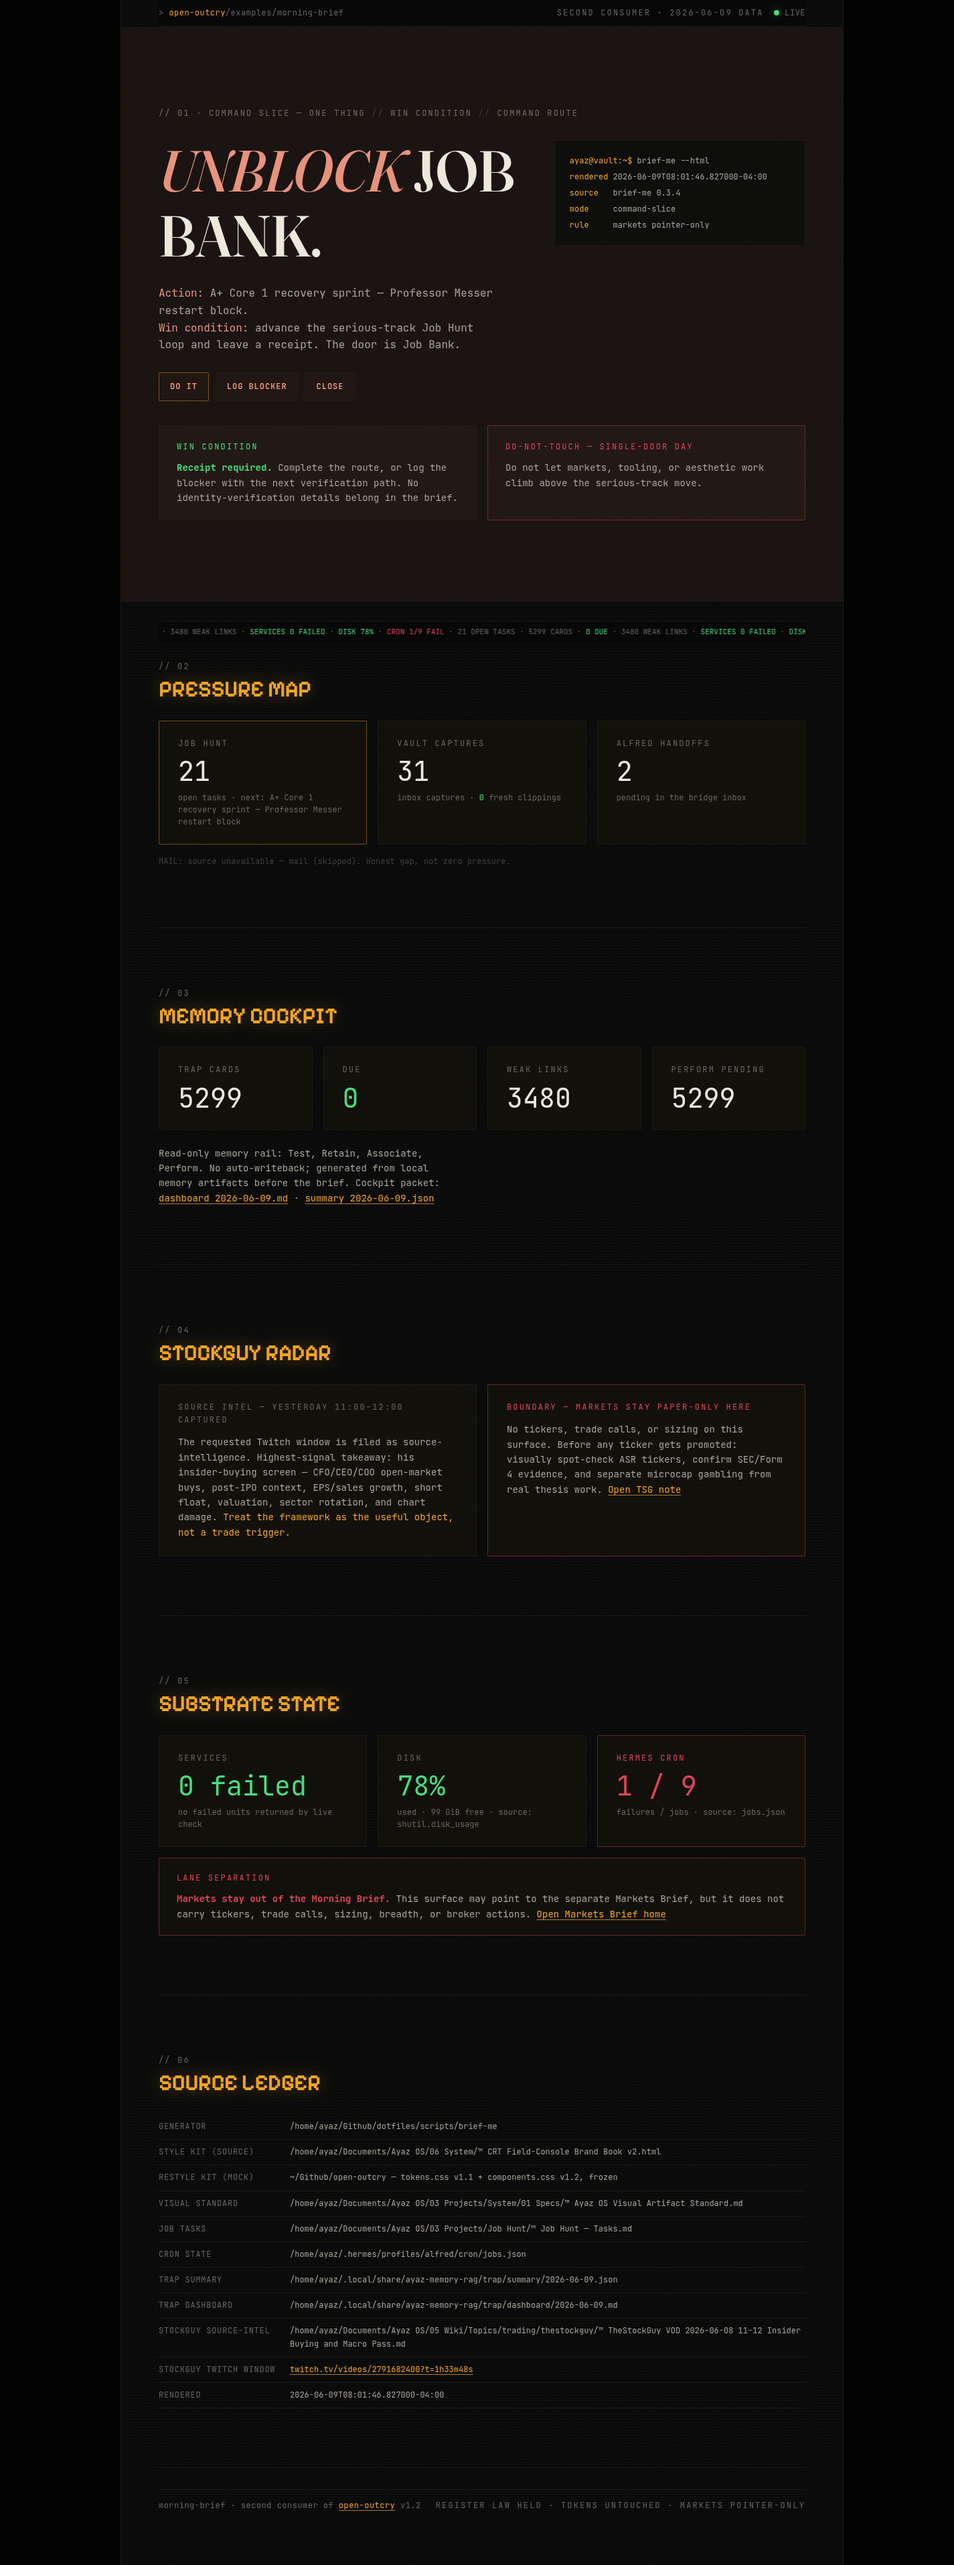
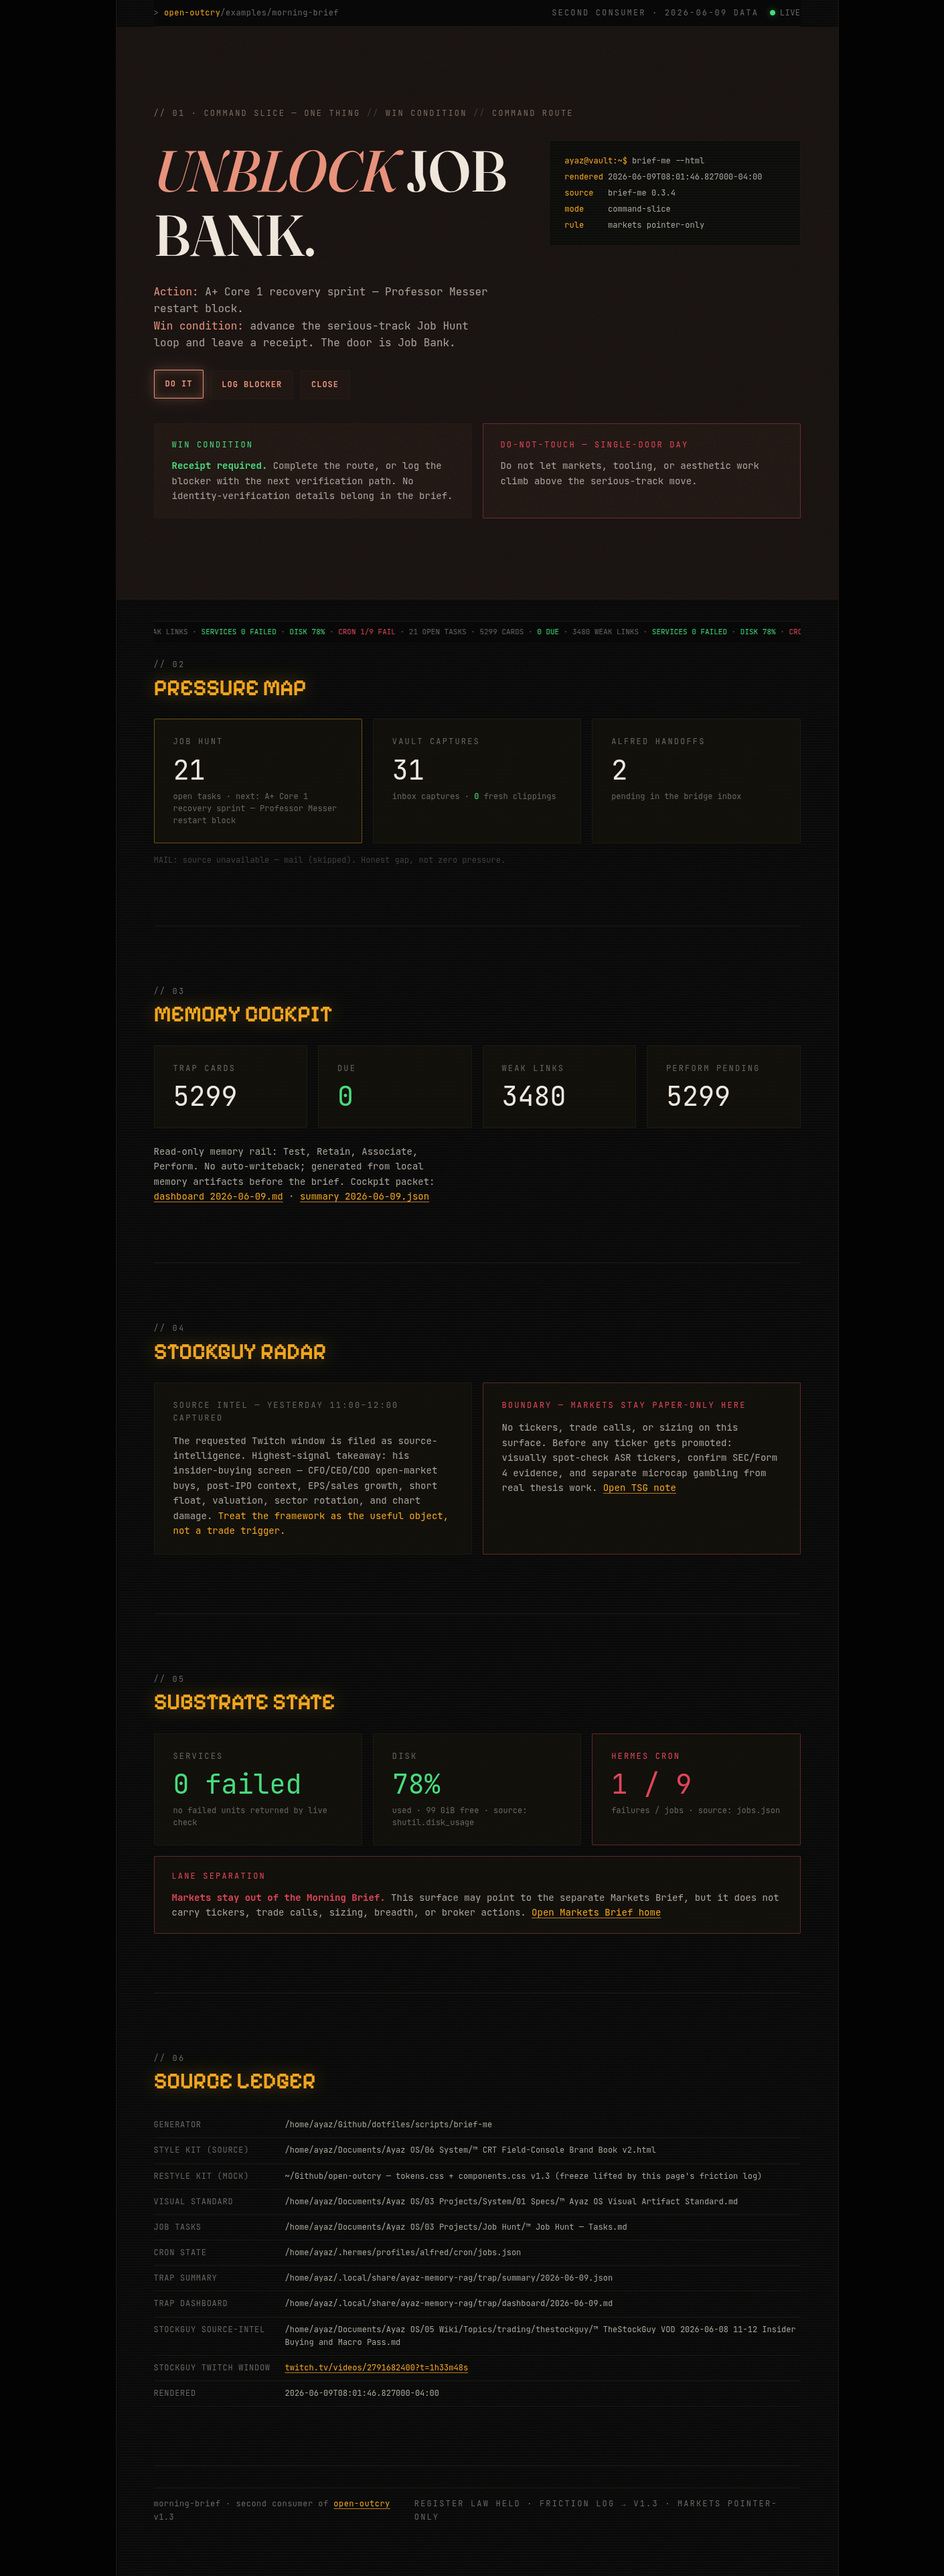
examples: consume v1.3 primitives, retire promoted glue

diff --git a/examples/morning-brief.html b/examples/morning-brief.html
@@ -1,14 +1,17 @@
 <!DOCTYPE html>
 <!-- ═══════════════════════════════════════════════════════════
 FRICTION LOG (second consumer) — examples/morning-brief.html
-Contract under test: tokens.css v1.1 + components.css v1.2 (FROZEN — untouched)
+Contract under test: tokens.css v1.1 + components.css v1.2 (frozen at the time)
+v1.3 UPDATE (2026-06-10): this log was the evidence that lifted the freeze.
+Promoted items below are marked PROMOTED v1.3; the page now consumes them.
+Unpromoted observations stay logged as still-deferred evidence.
 Source data: ™ Morning Brief — 2026-06-09 — CRT Field-Console — generated.html
-Every page-local rule below is friction evidence. Honest count: 9 page-local
-rule groups + 2 page-local utility classes the contract arguably owes us.
+Every page-local rule below was friction evidence. Honest count at v1.2: 9
+page-local rule groups + 2 page-local utility classes the contract owed us.
 
 ── VERDICTS ON THE TWO STANDING QUESTIONS ──
 
-1. --oo-gutter: PAIN REAPPEARED. Third copy of the gutter coupling now exists
+1. --oo-gutter: PROMOTED v1.3. PAIN REAPPEARED. Third copy of the gutter coupling now exists
    (index.html, inir.html, this file). `.oo-plate--bleed` hardcodes -56px
    margins (and -20px under 720px) inside the frozen contract, so every
    consumer stage MUST declare `padding: 0 56px` desktop / `0 20px` narrow
@@ -17,7 +20,7 @@ rule groups + 2 page-local utility classes the contract arguably owes us.
    tokens.css and make both `.oo-plate--bleed` and consumer stages consume
    it. This is the single clearest v1.3 candidate.
 
-2. Shared sticky chrome: PAIN REAPPEARED, identically. Header rail and
+2. Shared sticky chrome: PROMOTED v1.3 as .oo-rail--sticky. PAIN REAPPEARED, identically. Header rail and
    footer tape again needed page-local `position: sticky` + `z-index` +
    an opaque background re-declaration (rules ② below) — byte-for-byte the
    same glue inir.html wrote. Two consumers, same three lines each.
@@ -28,21 +31,22 @@ rule groups + 2 page-local utility classes the contract arguably owes us.
 
 ── PRIMITIVES I WISHED EXISTED ──
 
-· ACTION/BUTTON HARDWARE. Biggest gap this consumer hit. The hero needs
+· ACTION/BUTTON HARDWARE. PROMOTED v1.3 as .oo-btn — admitted as CHROME
+  ONLY (controls are chrome; chrome is always mono). Biggest gap this consumer hit. The hero needs
   three CTAs ("Do it" / "Log blocker" / "Close"). Closest contract fit is
   composing .oo-pane + .oo-hover (which even gives the black-on-voice
   :active invert for free — good press feel), but display/padding/type
   had to be page-local (.mb-btn, rule ④). First consumer had zero CTAs so
   this never surfaced. Candidate: `.oo-btn` = pane hardware + mono 12px
   uppercase + inline-flex + padding, hover/active from .oo-hover.
-· STAT DELTA SLOT. .oo-stat/.oo-stat-value carry kicker + number but real
+· STAT DELTA SLOT. STILL DEFERRED. .oo-stat/.oo-stat-value carry kicker + number but real
   telemetry always has a third line ("source: jobs.json", "99 GiB free").
   Page-local .mb-delta (rule ⑤). Candidate: `.oo-stat-delta`.
-· 4-UP GRID. TRAP cockpit is naturally four numbers. Contract stops at
+· 4-UP GRID. STILL DEFERRED. TRAP cockpit is naturally four numbers. Contract stops at
   .oo-grid-3, so .mb-grid-4 is page-local (rule ⑥). Borderline — could
   also be solved with a documented `style="grid-template-columns:..."`
   idiom instead of a class.
-· LEDGER / RECEIPT ROWS. Source Ledger is label+path rows — pure Open
+· LEDGER / RECEIPT ROWS. STILL DEFERRED. Source Ledger is label+path rows — pure Open
   Outcry territory (receipts!) yet no primitive. Page-local .mb-ledger
   (rule ⑦). Candidate worth designing properly, not rushing.
 · HERO SPLIT. Command board hero = wide editorial column + narrow machine
@@ -50,16 +54,19 @@ rule groups + 2 page-local utility classes the contract arguably owes us.
   Probably fine to leave page-local — hero ratios are page personality.
 
 ── PAGE-LOCAL RULES, FULL LIST ──
- ① shell reset + body + .stage (3rd copy of consumer shell boilerplate)
- ② sticky header/footer chrome (see verdict 2)
+ ① shell reset + body + .stage (3rd copy of consumer shell boilerplate;
+   gutter coupling RETIRED v1.3 — stage now pads with var(--oo-gutter))
+ ② sticky header/footer chrome — RETIRED v1.3, replaced by .oo-rail--sticky
  ③ .mb-hero grid (1.5fr/1fr split + narrow collapse)
- ④ .mb-btn action hardware (see button gap)
- ⑤ .mb-delta stat third line
- ⑥ .mb-grid-4 (+ narrow collapse to 2-up)
- ⑦ .mb-ledger receipt rows
+ ④ .mb-btn action hardware — RETIRED v1.3, replaced by .oo-btn
+ ⑤ .mb-delta stat third line (STILL DEFERRED)
+ ⑥ .mb-grid-4 (+ narrow collapse to 2-up) (STILL DEFERRED)
+ ⑦ .mb-ledger receipt rows (STILL DEFERRED)
  ⑧ .oo-tape .oo-tickwrap padding (copied verbatim from inir.html — second
    copy; the tape arguably owes itself vertical padding in-contract)
- ⑨ narrow glue: stage gutter 20px, kicker hidden in header, buttons wrap
+   (STILL DEFERRED)
+ ⑨ narrow glue: kicker hidden in header, buttons wrap (stage gutter 20px
+   RETIRED v1.3 — tokens.css re-declares --oo-gutter narrow)
 
 ── WHAT WORKED / NOTES ──
 · .oo-register-quote--block: first real use, and it earned its keep — ONE
@@ -71,12 +78,15 @@ rule groups + 2 page-local utility classes the contract arguably owes us.
   background-image). Same discipline on the sticky chrome and the hero
   plate fill. Trap did NOT bite because it was pre-briefed — it WILL bite
   the first consumer that isn't. Strong case for a components.css header
-  comment warning about it.
+  comment warning about it. → DOCUMENTED v1.3: warning now heads
+  components.css, and .oo-rail--sticky bakes background-color in.
 · Register law was easy to hold everywhere EXCEPT the hero CTAs: buttons
   are machine affordances (mono, uppercase) living on a broadcast plate.
   Resolved by reading them as tape/chrome voice (kickers are mono on
   broadcast plates already), not as a register breach — but the spec
   should say this out loud: "controls are chrome, chrome is always mono."
+  → CODIFIED v1.3: the rule now sits verbatim above .oo-btn in
+  components.css and in the spec's v1.3 changelog.
 · INK vs STAT-VALUE precedence (found during in-browser verify): `.up` /
   `.down` on the same element as `.oo-stat-value` silently lose — both are
   single-class selectors and .oo-stat-value's `color` is declared later in
@@ -86,6 +96,9 @@ rule groups + 2 page-local utility classes the contract arguably owes us.
   `color: var(--r-fg)` only as a fallback (e.g. `.oo-stat-value:where(...)`)
   so ink classes can win. Real semantic-state coloring is core to a stat
   primitive on a trading-flavored brand; this will bite every consumer.
+  → FIXED v1.3: base ink moved to :where(.oo-stat-value) (zero specificity);
+  nesting workaround removed from this page — ink classes sit directly on
+  the value element now.
 · Inline styles: this file follows the first consumer's idiom of inline
   style="" for one-off spacing. Counted honestly, ~30 inline declarations.
   Not contract gaps individually, but margin-top rhythm (14/20/24/28/32px)
@@ -123,25 +136,16 @@ rule groups + 2 page-local utility classes the contract arguably owes us.
     max-width: 1080px; margin: 0 auto; min-height: 100vh;
     /* TRAP: background-color, never shorthand — .oo-scanlines lives here */
     background-color: var(--r-stage); position: relative;
-    padding: 0 56px; /* must mirror .oo-plate--bleed's hardcoded -56px (--oo-gutter, see log) */
+    padding: 0 var(--oo-gutter); /* same token .oo-plate--bleed mirrors negative (v1.3) */
     border-left: 1px solid var(--r-line); border-right: 1px solid var(--r-line);
   }
 
-  /* ② sticky chrome (reappeared — see log verdict 2) */
-  header.oo-rail { position: sticky; top: 0; z-index: 10; background-color: var(--r-stage); }
-  footer { position: sticky; bottom: 0; z-index: 10; background-color: var(--r-stage); }
+  /* ② sticky chrome — RETIRED v1.3 (.oo-rail--sticky in markup) */
 
   /* ③ hero command-board split */
   .mb-hero { display: grid; grid-template-columns: minmax(0, 1.5fr) minmax(0, 1fr); gap: 28px; align-items: start; }
 
-  /* ④ action hardware — contract gap, composed on .oo-pane + .oo-hover */
-  .mb-btn {
-    display: inline-flex; align-items: center; justify-content: center;
-    padding: 11px 16px; min-height: 42px;
-    font-family: var(--oo-font-mono); font-size: 12px; font-weight: 700;
-    letter-spacing: .08em; text-transform: uppercase;
-    color: var(--r-voice); text-decoration: none;
-  }
+  /* ④ action hardware — RETIRED v1.3, promoted as .oo-btn */
 
   /* ⑤ stat third line — contract gap */
   .mb-delta { display: block; margin-top: 8px; font-size: 12px; color: var(--r-muted); line-height: 1.5; }
@@ -161,9 +165,8 @@ rule groups + 2 page-local utility classes the contract arguably owes us.
   /* ⑧ tape breathing room (copied from first consumer) */
   .oo-tape .oo-tickwrap { padding: 7px 0; }
 
-  /* ⑨ narrow: dispatch packet */
+  /* ⑨ narrow: dispatch packet (stage gutter now follows --oo-gutter) */
   @media (max-width: 720px) {
-    .stage { padding: 0 20px; } /* mirrors contract's -20px bleed override */
     header.oo-rail .oo-kicker { display: none; }
     .mb-hero { grid-template-columns: 1fr; }
     .mb-grid-4 { grid-template-columns: 1fr 1fr; }
@@ -174,7 +177,7 @@ rule groups + 2 page-local utility classes the contract arguably owes us.
 <body>
 <div class="stage oo-scanlines oo-grain">
 
-  <header class="oo-rail">
+  <header class="oo-rail oo-rail--sticky">
     <span>&gt; <span class="voice">open-outcry</span>/examples/morning-brief</span>
     <span style="display:flex; gap:16px; align-items:center;">
       <span class="oo-kicker">SECOND CONSUMER · 2026-06-09 DATA</span>
@@ -201,9 +204,9 @@ rule groups + 2 page-local utility classes the contract arguably owes us.
               leave a receipt. The door is Job Bank.
             </p>
             <div style="display:flex; gap:10px; flex-wrap:wrap; margin-top:28px;">
-              <a class="oo-pane oo-pane--armed oo-hover mb-btn" href="https://www.jobbank.gc.ca/login?redirect_url=/myaccount">Do it</a>
-              <a class="oo-pane oo-hover mb-btn" href="file:///home/ayaz/Documents/Ayaz%20OS/03%20Projects/Job%20Hunt/02%20Applications/%E2%84%A2%20Job%20Bank%20Blocker%20Log%20%E2%80%94%202026-05-20.md">Log blocker</a>
-              <a class="oo-pane oo-hover mb-btn" href="file:///home/ayaz/Documents/Ayaz%20OS/03%20Projects/Job%20Hunt/%E2%84%A2%20Job%20Hunt%20%E2%80%94%20Tasks.md">Close</a>
+              <a class="oo-pane oo-pane--armed oo-hover oo-btn" href="https://www.jobbank.gc.ca/login?redirect_url=/myaccount">Do it</a>
+              <a class="oo-pane oo-hover oo-btn" href="file:///home/ayaz/Documents/Ayaz%20OS/03%20Projects/Job%20Hunt/02%20Applications/%E2%84%A2%20Job%20Bank%20Blocker%20Log%20%E2%80%94%202026-05-20.md">Log blocker</a>
+              <a class="oo-pane oo-hover oo-btn" href="file:///home/ayaz/Documents/Ayaz%20OS/03%20Projects/Job%20Hunt/%E2%84%A2%20Job%20Hunt%20%E2%80%94%20Tasks.md">Close</a>
             </div>
           </div>
 
@@ -272,7 +275,7 @@ rule groups + 2 page-local utility classes the contract arguably owes us.
         </div>
         <div class="oo-pane oo-stat">
           <div class="oo-kicker">DUE</div>
-          <span class="oo-stat-value"><span class="up">0</span></span>
+          <span class="oo-stat-value up">0</span>
         </div>
         <div class="oo-pane oo-stat">
           <div class="oo-kicker">WEAK LINKS</div>
@@ -324,17 +327,17 @@ rule groups + 2 page-local utility classes the contract arguably owes us.
       <div class="oo-grid-3" style="margin-top:28px;">
         <div class="oo-pane oo-stat">
           <div class="oo-kicker">SERVICES</div>
-          <span class="oo-stat-value"><span class="up">0 failed</span></span>
+          <span class="oo-stat-value up">0 failed</span>
           <span class="mb-delta">no failed units returned by live check</span>
         </div>
         <div class="oo-pane oo-stat">
           <div class="oo-kicker">DISK</div>
-          <span class="oo-stat-value"><span class="up">78%</span></span>
+          <span class="oo-stat-value up">78%</span>
           <span class="mb-delta">used · 99 GiB free · source: shutil.disk_usage</span>
         </div>
         <div class="oo-pane oo-warning oo-stat">
           <div class="oo-kicker">HERMES CRON</div>
-          <span class="oo-stat-value"><span class="down">1 / 9</span></span>
+          <span class="oo-stat-value down">1 / 9</span>
           <span class="mb-delta">failures / jobs · source: jobs.json</span>
         </div>
       </div>
@@ -356,7 +359,7 @@ rule groups + 2 page-local utility classes the contract arguably owes us.
       <dl class="mb-ledger" style="margin-top:28px;">
         <div><dt>Generator</dt><dd>/home/ayaz/Github/dotfiles/scripts/brief-me</dd></div>
         <div><dt>Style kit (source)</dt><dd>/home/ayaz/Documents/Ayaz OS/06 System/™ CRT Field-Console Brand Book v2.html</dd></div>
-        <div><dt>Restyle kit (mock)</dt><dd>~/Github/open-outcry — tokens.css v1.1 + components.css v1.2, frozen</dd></div>
+        <div><dt>Restyle kit (mock)</dt><dd>~/Github/open-outcry — tokens.css + components.css v1.3 (freeze lifted by this page's friction log)</dd></div>
         <div><dt>Visual standard</dt><dd>/home/ayaz/Documents/Ayaz OS/03 Projects/System/01 Specs/™ Ayaz OS Visual Artifact Standard.md</dd></div>
         <div><dt>Job tasks</dt><dd>/home/ayaz/Documents/Ayaz OS/03 Projects/Job Hunt/™ Job Hunt — Tasks.md</dd></div>
         <div><dt>Cron state</dt><dd>/home/ayaz/.hermes/profiles/alfred/cron/jobs.json</dd></div>
@@ -371,14 +374,14 @@ rule groups + 2 page-local utility classes the contract arguably owes us.
     <!-- ── FOOTER INDEX ── -->
     <section class="oo-plate" style="border-bottom:none; padding:32px 0;">
       <div class="oo-rail oo-rail--foot" style="padding:14px 0;">
-        <span>morning-brief · second consumer of <a class="oo-link" href="../index.html">open-outcry</a> v1.2</span>
-        <span class="oo-kicker">REGISTER LAW HELD · TOKENS UNTOUCHED · MARKETS POINTER-ONLY</span>
+        <span>morning-brief · second consumer of <a class="oo-link" href="../index.html">open-outcry</a> v1.3</span>
+        <span class="oo-kicker">REGISTER LAW HELD · FRICTION LOG → v1.3 · MARKETS POINTER-ONLY</span>
       </div>
     </section>
 
   </main>
 
-  <footer>
+  <footer class="oo-rail--sticky">
     <div class="oo-tape" aria-hidden="true"><div class="oo-tickwrap">
        21 OPEN TASKS · 5299 CARDS · <span class="up">0 DUE</span> · 3480 WEAK LINKS · <span class="up">SERVICES 0 FAILED</span> · <span class="up">DISK 78%</span> · <span class="down">CRON 1/9 FAIL</span> ·
        21 OPEN TASKS · 5299 CARDS · <span class="up">0 DUE</span> · 3480 WEAK LINKS · <span class="up">SERVICES 0 FAILED</span> · <span class="up">DISK 78%</span> · <span class="down">CRON 1/9 FAIL</span> ·

diff --git a/examples/inir.html b/examples/inir.html
@@ -23,14 +23,11 @@
   .stage {
     max-width: 1080px; margin: 0 auto; min-height: 100vh;
     background: var(--r-stage); position: relative;
-    padding: 0 56px;
+    padding: 0 var(--oo-gutter);
     border-left: 1px solid var(--r-line); border-right: 1px solid var(--r-line);
   }
-  header.oo-rail { position: sticky; top: 0; z-index: 10; background: var(--r-stage); }
-  footer { position: sticky; bottom: 0; z-index: 10; background: var(--r-stage); }
   .oo-tape .oo-tickwrap { padding: 7px 0; }
   @media (max-width: 720px) {
-    .stage { padding: 0 20px; }
     header.oo-rail .oo-kicker { display: none; }
   }
 </style>
@@ -38,7 +35,7 @@
 <body class="reg-broadcast">
 <div class="stage reg-broadcast oo-grain">
 
-  <header class="oo-rail">
+  <header class="oo-rail oo-rail--sticky">
     <span>&gt; <span class="voice">open-outcry</span>/examples/inir</span>
     <span style="display:flex; gap:16px; align-items:center;">
       <span class="oo-kicker">REGISTER: BROADCAST</span>
@@ -149,7 +146,7 @@
 
   </main>
 
-  <footer>
+  <footer class="oo-rail--sticky">
     <div class="oo-tape" aria-hidden="true"><div class="oo-tickwrap">
        QML FILES <span class="up">878</span> · SERVICES <span class="voice">80</span> · MODULES <span class="voice">30</span> · COMMITS <span class="up">1,826</span> · FAKE METRICS <span class="down">0</span> · HARVESTED <span class="voice">2026-06-10</span> ·
        QML FILES <span class="up">878</span> · SERVICES <span class="voice">80</span> · MODULES <span class="voice">30</span> · COMMITS <span class="up">1,826</span> · FAKE METRICS <span class="down">0</span> · HARVESTED <span class="voice">2026-06-10</span> ·
